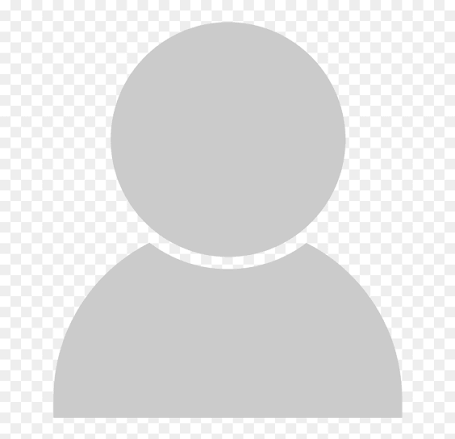
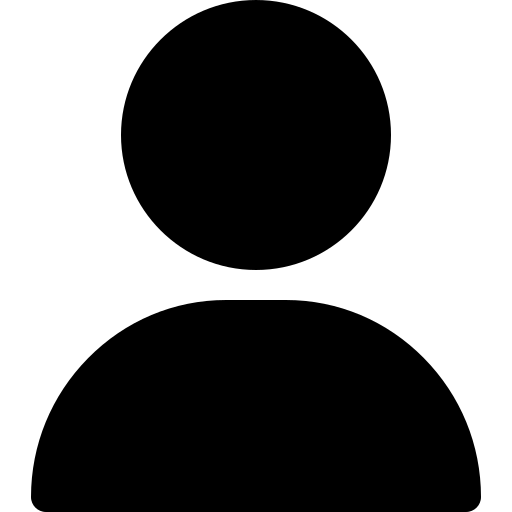
Use conditionals in Angular template

diff --git a/client/src/layout/nav/nav.component.html b/client/src/layout/nav/nav.component.html
@@ -22,24 +22,44 @@
       <a class="hover:font-semibold" href="">Lists</a>
       <a class="hover:font-semibold" href="">Messages</a>
     </nav>
-    <div class="flex align-middle ml-auto gap-3">
-      <form #loginForm="ngForm" (ngSubmit)="login()" class="flex items-center gap-3">
-        <input
-          [(ngModel)]="credentials.email"
-          name="email"
-          type="email"
-          class="input"
-          placeholder="Email"
-        />
-        <input
-          [(ngModel)]="credentials.password"
-          name="password"
-          type="password"
-          class="input"
-          placeholder="password"
-        />
-        <button type="submit" class="btn btn-primary">Login</button>
-      </form>
+    <div class="flex items-center ml-auto gap-3">
+      @if (isLoggedIn()) {
+        <div class="dropdown dropdown-end">
+          <div
+            tabindex="0"
+            role="button"
+            class="flex items-center text-base-content text-xl gap-3 cursor-pointer"
+          >
+            <img src="/user.png" alt="user avatar" class="w-8 h-8 rounded-full" />
+            <span>Mohamed</span>
+          </div>
+          <ul
+            tabindex="-1"
+            class="dropdown-content menu bg-base-100 rounded-box z-1 w-52 p-2 shadow-sm"
+          >
+            <li><a>Profile settings</a></li>
+            <li><button (click)="logout()">Logout</button></li>
+          </ul>
+        </div>
+      } @else {
+        <form #loginForm="ngForm" (ngSubmit)="login()" class="flex items-center gap-3">
+          <input
+            [(ngModel)]="credentials.email"
+            name="email"
+            type="email"
+            class="input"
+            placeholder="Email"
+          />
+          <input
+            [(ngModel)]="credentials.password"
+            name="password"
+            type="password"
+            class="input"
+            placeholder="password"
+          />
+          <button type="submit" class="btn btn-primary">Login</button>
+        </form>
+      }
     </div>
   </div>
 </header>

diff --git a/client/src/layout/nav/nav.ts b/client/src/layout/nav/nav.ts
@@ -12,11 +12,20 @@ export class Nav {
 
   protected title = signal("Logo");
   protected credentials = { email: "", password: "" };
+  protected isLoggedIn = signal(false);
 
   public login() {
     this.service.login(this.credentials).subscribe({
-      next: (result) => console.log(result),
+      next: (result) => {
+        console.log(result);
+        this.isLoggedIn.set(true);
+        this.credentials = { email: "", password: "" };
+      },
       error: (error) => alert(error.message),
     });
+  }
+
+  public logout() {
+    this.isLoggedIn.set(false);
   }
 }
